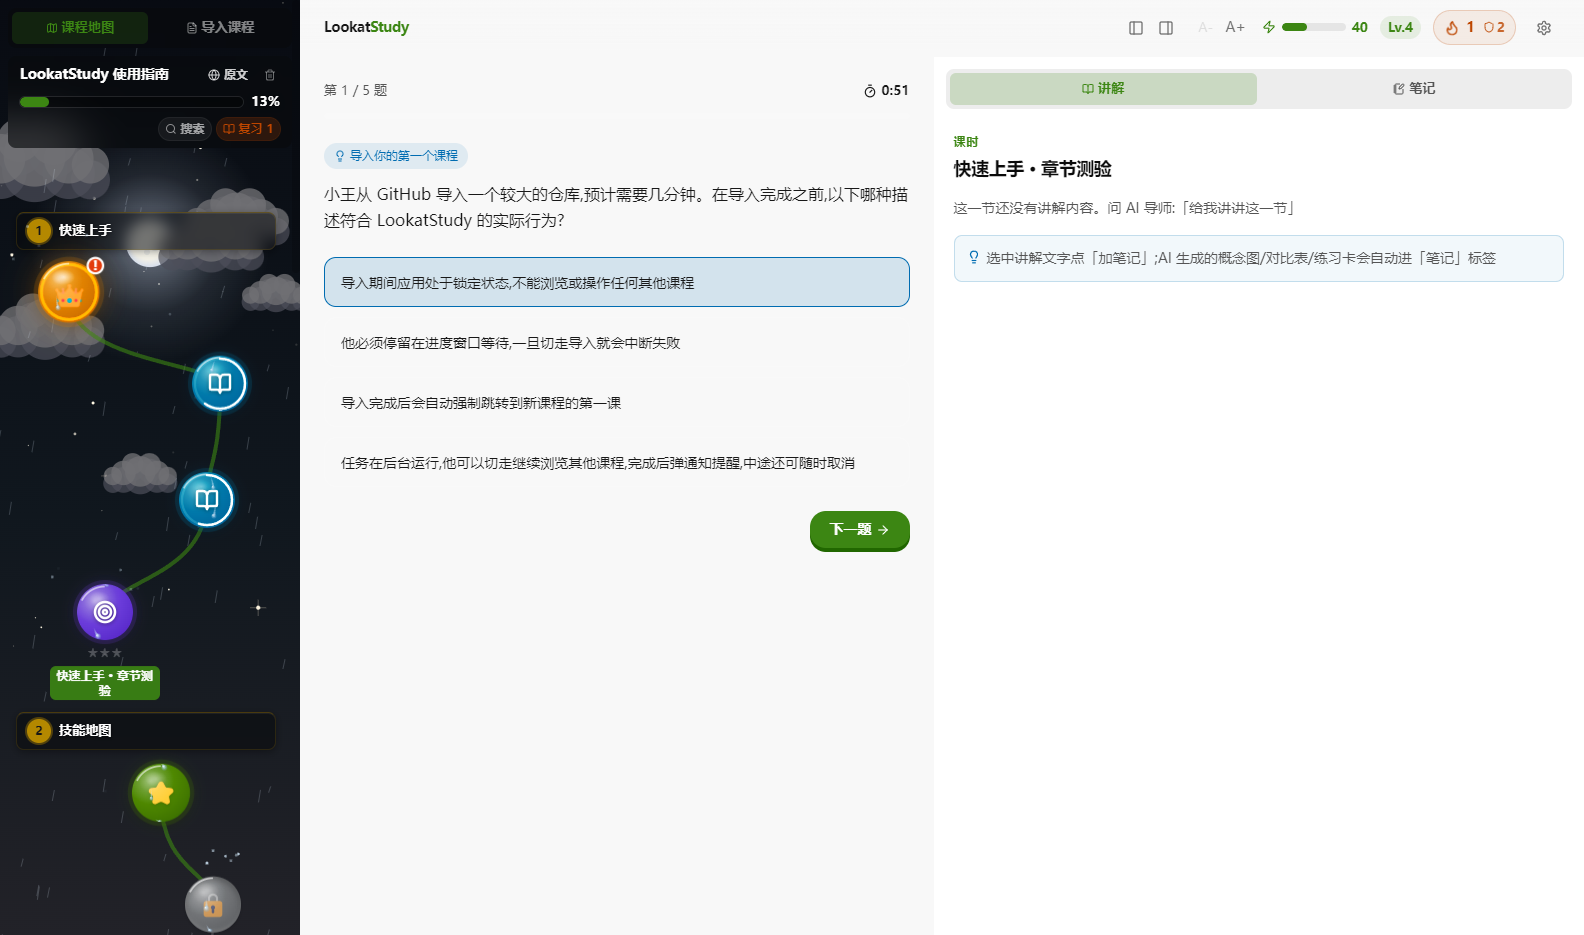
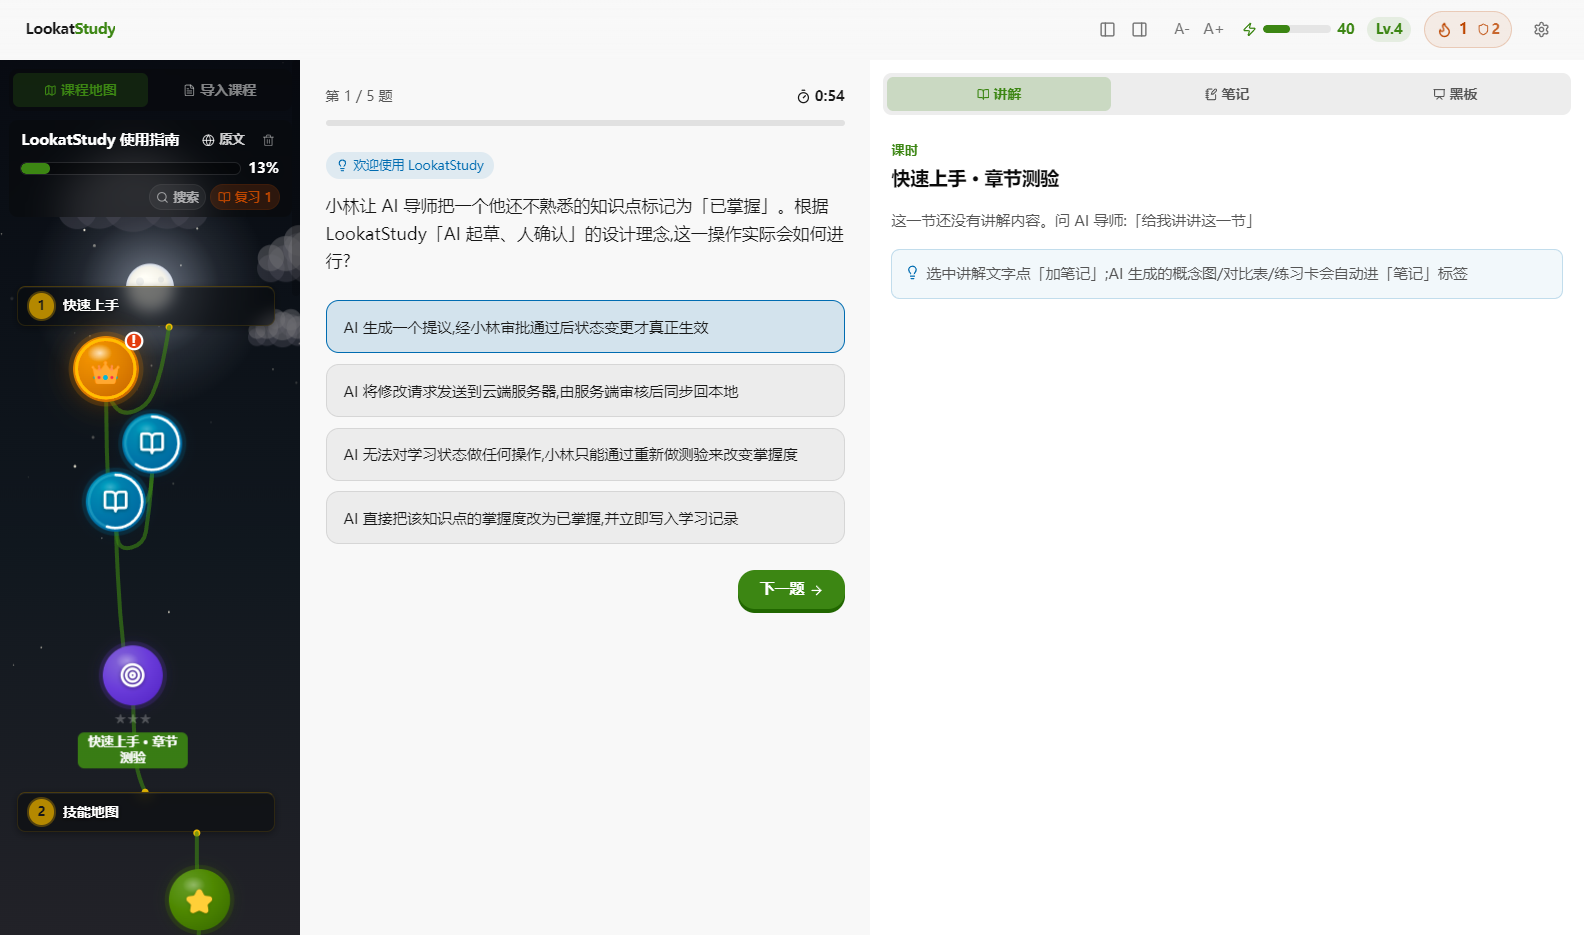
docs: align PRODUCT/AGENTS with post-audit reality, refresh screenshots
- PRODUCT: ConfirmCard danger now described as full warning border (stripe
  removed by the audit); Toast severity described as icon + tinted capsule
  (code dropped stripes long before the doc did)
- AGENTS release process: tag push does NOT create the Release — attach jobs
  fail with 'release not found' until gh release create runs; document the
  create-then-rerun-failed flow learned shipping v0.11.0
- screenshots regenerated on v0.11.0 UI (zh + en): new radial concept map,
  fixed exam answering view

diff --git a/AGENTS.md b/AGENTS.md
@@ -98,7 +98,7 @@ npm run verify:core && npx vite build && npm run self-test
 ## Release process
 
 1. Fold `[Unreleased]` in `CHANGELOG.md` into a versioned section and bump `version` in `package.json` (one commit, `chore(release): vX.Y.Z`).
-2. Push tag `vX.Y.Z`. `.github/workflows/package.yml` then builds the 3-OS matrix (NSIS exe / arm64 dmg / AppImage + deb) and attaches everything to that tag's GitHub Release automatically.
+2. Push tag `vX.Y.Z` — `package.yml` (3-OS matrix) and `android-build.yml` both auto-trigger on `v*`. **Neither creates the Release**: their attach steps (`gh release upload`) fail with `release not found` until the Release object exists. So right after pushing the tag, run `gh release create vX.Y.Z --title "vX.Y.Z" --notes-file <file>` (notes drafted per human-writing + check_prose, English first). If the attach jobs already failed, `gh run rerun <id> --failed` after creating the release — builds are cached, only attach re-runs.
 3. To backfill or rebuild installers on an **existing** release, dispatch `gh workflow run package.yml --ref main -f release_tag=vX.Y.Z` — the attach happens from CI. Don't download/upload big artifacts locally; the network path to GitHub is unreliable.
 4. Release notes are bilingual (English first, then 简体中文), edited via `gh release edit vX.Y.Z --notes-file <file>`.
 5. `ci.yml` runs oxlint + both typechecks + 83 verify suites + vite build + mobile bundle on every PR and push to main — never merge a red PR. `android-build.yml` (tag `v*` or dispatch with `release_tag`) builds `LookatStudy-launcher.apk` + `lookatstudy-mobile.zip` and attaches them to the Release.

diff --git a/PRODUCT.md b/PRODUCT.md
@@ -101,8 +101,8 @@ Banned: `text-[10px]`, `text-[11px]`, `text-xs` (all eliminated). When adding te
 ### Component primitives (v0.6)
 - **`btn-3d-brand`** = primary action everywhere (no `btn-3d-blue`, removed as orphan).
 - **`btn-icon-3d-brand` / `-warning`** = circular 3D icon buttons (send/stop). `btn-3d-brand` is rectangular (`rounded-2xl`); circular icon buttons use this vocabulary to avoid distortion.
-- **`ConfirmCard`** — inline confirmation popover (portal to body), replaces ALL native `confirm()`. Danger actions get warning-red left stripe.
-- **`Toast`** with `severity` prop (success/error/warning/info/default), each with semantic left-stripe + lucide icon, exit animation.
+- **`ConfirmCard`** — inline confirmation popover (portal to body), replaces ALL native `confirm()`. Danger actions get a full warning-colored border; regular confirmations stay neutral (the confirm button already carries the semantic color).
+- **`Toast`** with `severity` prop (success/error/warning/info/default), pill capsule with semantic lucide icon + tint, exit animation (no side-stripes — design-system ban).
 - **`GlobalTooltip`** — portal-based, follows mouse, left-bottom anchor. Any element with `data-tooltip` attribute gets hover tooltip. Use this for truncated titles, mode explanations, node names.
 
 ## What this is not
